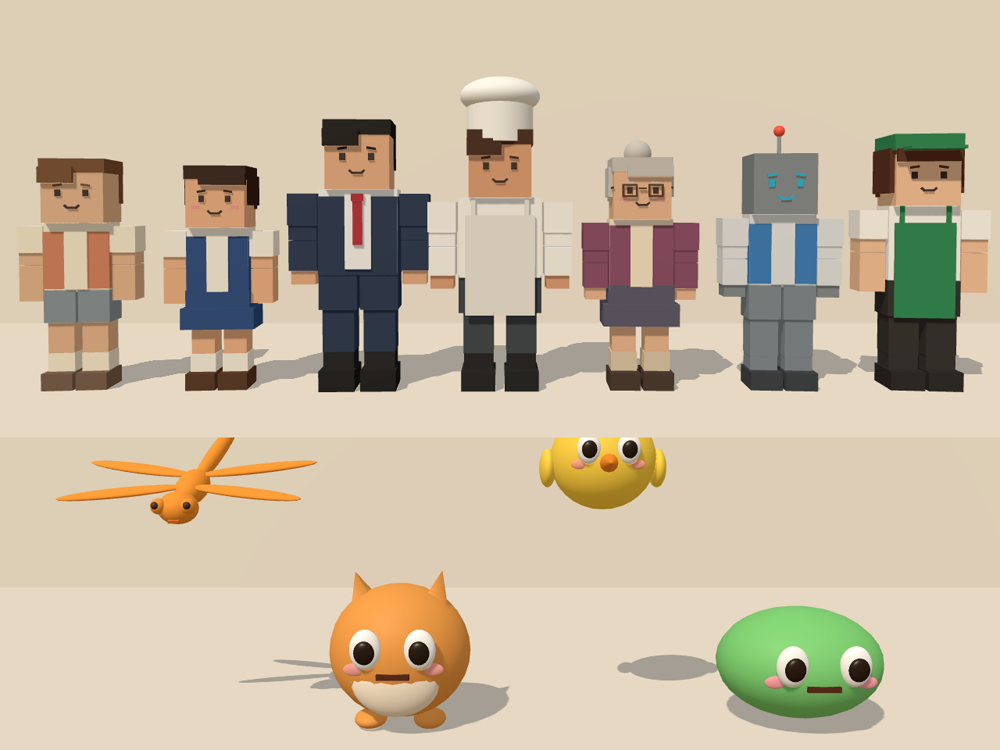
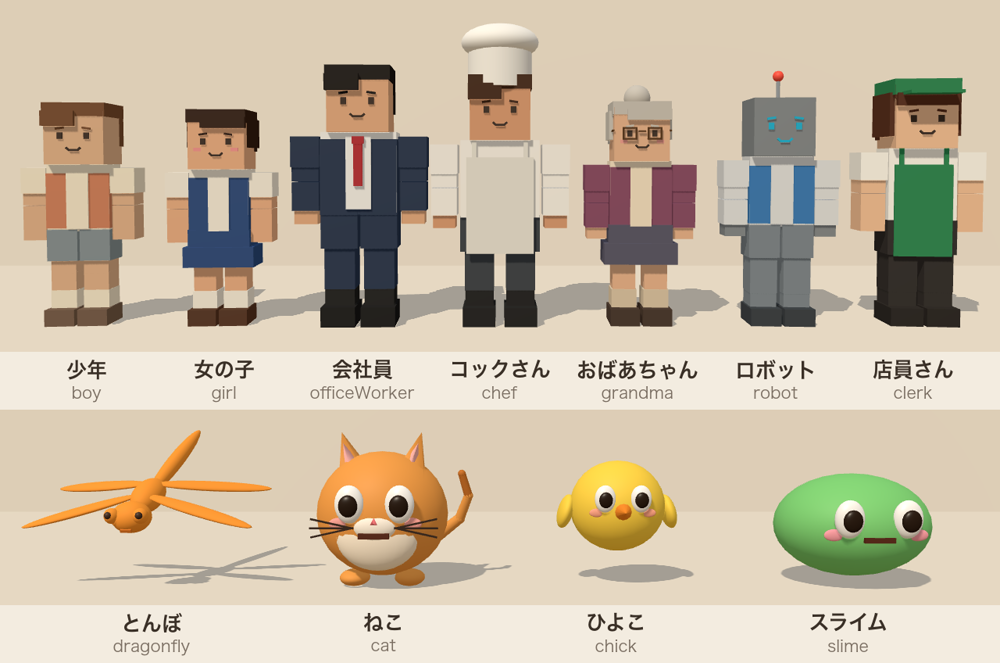
Docs: labelled cast image, full kikaku-option mapping, voice terms for the example voices

diff --git a/SKILL.md b/SKILL.md
@@ -27,16 +27,21 @@ Make 3D animated videos (9:16 shorts or 16:9) with consistent characters, VOICEV
 
 | 企画書 | → | Implementation |
 |---|---|---|
-| 向き / 長さ | → | `--aspect 9:16`/`16:9`, `total_sec`; layout `*916` / `duo169` |
+| 誰に見せる / どこに載せる | → | tone and length only. Shorts/TikTok/Reels → 9:16; YouTube (normal), slides, TV → 16:9 when 向き is おまかせ |
+| 雰囲気 | → | コメディ: quick lines (`speed` 1.1–1.2), a beat of silence + `deadpan` look to camera for the punchline, 明るい music · ほのぼの: `speed` 0.95–1.0, `happy`, のんびり music · 解説: `solo916`/`duo169`, narrator voice 30, steady pace, subtitles burn if おまかせ · 感動: slow (`speed` ~0.9), longer pauses, のんびり music, no joke ending · シュール: `deadpan`, few gestures, ドキドキ or 音楽なし · その他: follow the user's words |
+| 向き / 長さ | → | 縦 `--aspect 9:16`, 横 `16:9`; `total_sec` (おまかせ → 12–15 s); layout by head count: 1 `solo916`, 2 `duoHumans916` (human + flying mascot `duo916`), 3 `trio916`, 横 `duo169` |
 | 登場人物・見た目 | → | 少年 `boy`, 女の子 `girl`, 会社員 `officeWorker`, コックさん `chef`, おばあちゃん `grandma`, ロボット `robot`, 店員さん `clerk`, とんぼ `dragonfly`, ねこ `cat`, ひよこ `chick`, スライム `slime`; described in words → `AI3DChars.define(name, spec)` (or a cast.js entry) |
-| 声の感じ | → | `speaker_id` from `references/voicevox_speakers.md` (one id per character, all video) |
+| 声の感じ | → | 明るい / 落ち着いた / 元気な子ども / 低め / かわいい / お年寄り / ロボットっぽい → the table in `references/voicevox_speakers.md`; おまかせ → that table's "Fits" column for the character, keeping every character's voice different. One id per character, all video |
 | 性格 / 表情・動き | → | `setExpression`, `look`, `point`, `speed`/`pitch` of lines |
-| 場所 | → | 学校のホール `schoolHall`, 会社 `office`, キッチン `kitchen`, リビング `livingRoom`, お店 `shop`, 公園 `park`; otherwise `createRoom` / `createOutdoor` + props |
+| 場所 | → | 学校のホール `schoolHall`, 会社 `office`, キッチン `kitchen`, リビング `livingRoom`, お店 `shop`, 公園 `park`; その他 → `createRoom` / `createOutdoor` + props; おまかせ → the set that fits the story |
+| 出てくる物・持っている物 | → | props from `references/api.md`; carried → `createStacker`; held in one hand → child of `rig.arms.L.fore` |
 | 流れ（表） | → | one `lines[]` entry per spoken cue; beats timed from the audio printout |
-| 音楽の雰囲気 / 止める瞬間 / 効果音 | → | built-in loop (明るい) or `--bgm file` (e.g. `examples/zumen-doori/bgm_calm.mp3` = のんびり), `bgm_stop_sec`, `sfx[]` |
+| 音楽の雰囲気 | → | 明るい: built-in loop (no `--bgm`) · のんびり: `--bgm "$SKILL"/examples/zumen-doori/bgm_calm.mp3` · ドキドキ: `--bgm "$SKILL"/assets/bgm_tense.mp3` · 音楽なし: `--bgm none` · おまかせ: by 雰囲気 (row above) |
+| 音楽を止めたい瞬間 / 効果音 | → | `bgm_stop_sec` (omit = to the end); `sfx[]`. Bundled sound: `examples/zumen-doori/wind.mp3` only. Other sounds need a file from the user; without one, leave it out and mark （仮） |
 | 字幕 | → | `--subtitles burn` (動画に入れる) or `none` (なし / あとで自分で: `subtitles.srt` is still written) |
 | 画面内の文字 | → | keep props blank unless 入れたい (then say text is added in editing) |
 | こだわり | → | add to the Quality-rules check of `preview.png` |
+| 参考 | → | use for mood and pacing only; do not copy someone else's characters, footage or music |
 
 5. Change requests: edit `kikaku.md` first, then the video. The plan sheet is the source of truth.
 6. In the final report, list every item you decided provisionally (（仮）) and the voice credit lines needed.
@@ -64,7 +69,7 @@ python3 "$SKILL"/scripts/render_batch.py --work-dir . --aspect 9:16 --subtitles 
 - **One line per visual cue.** If props appear on separate words ("荷物！ 写真！ 進行も！"), make them separate lines so each `start` can be set.
 - The script prints each line's real start/end; time the choreography from that printout.
 - Sound effects / ambience: top-level `"sfx": [{ "file": "wind.mp3", "start": 5.0, "volume": 0.8 }]` (path relative to dialogue.json).
-- Options: `--bgm file.mp3 --bgm-volume 0.6` (own music), `--require-voicevox` (fail instead of falling back to macOS `say`).
+- Options: `--bgm file.mp3 --bgm-volume 0.6` (own music; bundled: `examples/zumen-doori/bgm_calm.mp3` calm, `assets/bgm_tense.mp3` tense), `--bgm none` (no music), `--require-voicevox` (fail instead of falling back to macOS `say`).
 - **Keep one `speaker_id` per character for the whole video**; convey emotion with `speed`/`pitch`.
 
 ### render_batch.py
@@ -88,7 +93,7 @@ Cast: humanoids `boy girl officeWorker chef grandma robot clerk`; mascots `drago
 Side `'L'` = screen-left when facing the camera. Spec height is already in `group.scale`.
 **Mascot** — `group, body, head, mouth, eyes, height, faceY` + `setMouth`, `setExpression`, `look(x,y)`, `blink(t)`, `flap(t)`. **Mascots and the dragonfly never get arms/hands**; they gesture with the whole body. Dragonfly: `bodyPivot.rotation.x ≈ 0.42` so the wings read; body at local y=1.0.
 
-**New character** — add a spec to `assets/cast.js` (copy the closest entry), or in a scene: `AI3DChars.define('teacher', { ...AI3DChars.specs.officeWorker, hairStyle: 'bob', glasses: '#333' })`. Humanoid spec keys: colours `skin hair top topAccent bottom socks shoes eye glasses tie apron cheeks hatColor`; `hairStyle short|bob|long|ponytail|bun|cap|bald`; `hat cap|chef|helmet|beanie|antenna`; `topAccentStyle vest|jacket`; `bottomStyle shorts|pants|skirt`; `sleeves short|long`; `height`, `build`, `headScale`. Mascot keys: `body belly cheeks size shape(round|tall|blob) ears(cat|bear|bunny) wings(bird|bug) tail(round|long) beak float feet`. Colours `'#rrggbb'`.
+**New character** — add a spec to `assets/cast.js` (copy the closest entry), or in a scene: `AI3DChars.define('teacher', { ...AI3DChars.specs.officeWorker, hairStyle: 'bob', glasses: '#333' })`. Humanoid spec keys: colours `skin hair top topAccent bottom socks shoes eye glasses tie apron cheeks hatColor`; `hairStyle short|bob|long|ponytail|bun|cap|bald`; `hat cap|chef|helmet|beanie|antenna`; `topAccentStyle vest|jacket`; `bottomStyle shorts|pants|skirt`; `sleeves short|long`; `height`, `build`, `headScale`. Mascot keys: `body belly cheeks size shape(round|tall|blob) ears(cat|bear|bunny) earInner wings(bird|bug) tail(round|long) tailTip beak muzzle nose whiskers float feet` (a cat reads as a cat with ears:'cat', tail:'long', whiskers, nose, muzzle — see `cat` in cast.js). Colours `'#rrggbb'`.
 
 **Sets** — `AI3DProps.createSet(THREE, scene, 'schoolHall'|'office'|'kitchen'|'livingRoom'|'shop'|'park')` → `{ root, main, mainTopY, …refs }` (`main` = key furniture back-right; move it freely). Build others with `createRoom(THREE, parent, {floor, wall, windows, banner})` / `createOutdoor(THREE, parent, {ground, sky, buildings})`.
 

diff --git a/README.md b/README.md
@@ -64,8 +64,7 @@ Gemini CLI なら `~/.gemini/config/skills/ai-3d-video` など、それぞれの
 
 <img src="docs/cast.png" width="600" alt="出演者一覧">
 
-上の段、左から：少年 `boy`／女の子 `girl`／会社員 `officeWorker`／コックさん `chef`／おばあちゃん `grandma`／ロボット `robot`／店員さん `clerk`
-下の段、左から：とんぼ `dragonfly`／ねこ `cat`／ひよこ `chick`／スライム `slime`
+絵の下に、企画書で使う日本語の名前と、エージェントが使う名前を書いてあります。上の段は人の形の出演者 7 人（少年 `boy`／女の子 `girl`／会社員 `officeWorker`／コックさん `chef`／おばあちゃん `grandma`／ロボット `robot`／店員さん `clerk`）、下の段は人の形でない相棒 4 体（とんぼ `dragonfly`／ねこ `cat`／ひよこ `chick`／スライム `slime`）です。相棒には手がありません。
 
 企画書では日本語の名前で選べば十分です。一覧に無い見た目は、言葉で書いてください（例：「メガネの先生、紺のジャケット、ボブヘア」）。エージェントが設定を作ります。
 
@@ -110,7 +109,7 @@ python3 "$SKILL"/scripts/audio_pipeline.py --script dialogue.json --out-dir . --
 python3 "$SKILL"/scripts/render_batch.py --work-dir . --aspect 9:16 --subtitles none --out out.mp4
 ```
 
-同梱の `bgm_calm.mp3` と `wind.mp3` はこのリポジトリ用にプログラムで生成した音で、コードと同じ MIT ライセンスで使えます。
+同梱の `bgm_calm.mp3`（のんびり）、`wind.mp3`（風の音）、`assets/bgm_tense.mp3`（ドキドキ）はこのリポジトリ用にプログラムで生成した音で、コードと同じ MIT ライセンスで使えます。
 
 ### サンプル 3 本目：「塩少々」（12 秒）
 
@@ -174,7 +173,7 @@ python3 "$SKILL"/scripts/render_batch.py --work-dir . --aspect 9:16 --subtitles 
 
 | コマンド | オプション |
 |---|---|
-| `audio_pipeline.py` | `--bgm 曲.mp3`（自分の曲を使う）、`--bgm-volume 0.6`、`--require-voicevox`（VOICEVOX が無ければ止まる） |
+| `audio_pipeline.py` | `--bgm 曲.mp3`（自分の曲を使う）、`--bgm none`（音楽なし）、`--bgm-volume 0.6`、`--require-voicevox`（VOICEVOX が無ければ止まる） |
 | `render_batch.py` | `--preview`（下見）、`--step 5`（下見のコマ間隔）、`--subtitles burn`（字幕を焼き込む）、`--timeout 600`、`--chrome`、`--subtitle-font` |
 
 ## フォルダ構成
@@ -200,7 +199,17 @@ VOICEVOX:春日部つむぎ
 VOICEVOX:玄野武宏
 ```
 
-「塩少々」では `VOICEVOX:青山龍星`、`VOICEVOX:ナースロボ＿タイプＴ` を使っています。
+「塩少々」では次の 2 つの声を使っています。
+
+```text
+VOICEVOX:青山龍星
+VOICEVOX:ナースロボ＿タイプＴ
+```
+
+どちらも、この表記を入れれば商用・非商用で使えるとされています（VOICEVOX 0.26.1 に同梱の規約文による）。ただし青山龍星は、**企業が関わる形で使う場合は事前の確認が必要**とされています。
+
+- 青山龍星：https://www.virvoxproject.com/voicevoxの利用規約
+- ナースロボ＿タイプＴ：https://www.krnr.top/rules
 
 春日部つむぎ・玄野武宏は、この表記を入れれば商用・非商用で使えるとされています（VOICEVOX 0.26.1 に同梱の規約文による）。規約は変わることがあるので、公開前に各キャラクターの最新の利用規約を確認してください。
 
@@ -219,7 +228,7 @@ VOICEVOX:玄野武宏
 ## 既知の制限
 
 - 既定は 15fps です。口パクもこの細かさで作られます。
-- 同梱の BGM は簡単な電子音です。作品には `--bgm` で自分の曲を指定することをおすすめします。
+- 同梱の BGM（内蔵の明るいループ、のんびり、ドキドキ）は簡単な電子音です。作品には `--bgm` で自分の曲を指定することをおすすめします。
 - 描画はソフトウェア処理（SwiftShader）なので、複雑なシーンでは時間がかかります。
 - VOICEVOX が起動していない macOS では、警告を出したうえで OS の読み上げ音声に切り替わります（声は変わります）。
 

diff --git a/references/api.md b/references/api.md
@@ -29,7 +29,7 @@ Load order in scene.html: `three.min.js, characters.js, cast.js, props.js, stage
 | `robot` | humanoid | metal head, antenna (`rig.parts.antennaTip`), cyan eyes | 1.72 |
 | `clerk` | humanoid | bob hair, green cap + apron | 1.68 |
 | `dragonfly` | mascot | orange, 4 wings, **no arms** | body at local y=1.0 |
-| `cat` | mascot | standing orange cat, ears, tail | 0.63 |
+| `cat` | mascot | standing orange cat: pointed ears, whiskers, pink nose, curled striped-tip tail | 0.64 |
 | `chick` | mascot | flying yellow chick, beak, wings | body at local y=1.0 |
 | `slime` | mascot | green blob, no feet | 0.45 |
 
@@ -43,7 +43,9 @@ Load order in scene.html: `three.min.js, characters.js, cast.js, props.js, stage
 ### Mascot spec
 `body belly eyeWhite pupil mouthColor cheeks` colours · `size` (1 ≈ 0.5 tall) · `shape: 'round'|'tall'|'blob'` ·
 `ears: null|'cat'|'bear'|'bunny'` · `wings: null|'bird'|'bug'`, `wingColor` · `tail: null|'round'|'long'` · `beak` colour (replaces the mouth) ·
-`float` (hover with body at local y=1.0, like the dragonfly) · `feet` (default true when standing) · `antenna`.
+`float` (hover with body at local y=1.0, like the dragonfly) · `feet` (default true when standing) · `antenna` ·
+`earInner` (inner-ear colour, cat ears) · `tailTip` (tip colour of the long tail, which curls out to the side and up so it reads from the front) ·
+`muzzle` (snout patch colour; mouth and nose sit on it) · `nose` (small triangle nose colour) · `whiskers` (colour; 3 per side).
 
 ### Rig contract
 

diff --git a/templates/kikaku.md b/templates/kikaku.md
@@ -67,7 +67,7 @@
 ### 6. 音
 - 音楽の雰囲気（○）：明るい ／ のんびり ／ ドキドキ ／ 音楽なし ／ おまかせ
 - 音楽を止めたい瞬間：　　　　（例）オチの一言の直前
-- 効果音：　　　　　　　　　　（例）最後に「チーン」、風の音
+- 効果音：　　　　　　　　　　（例）風の音（同梱）。ほかの音は、音のファイルがあれば使えます
 
 ### 7. こだわり・やってほしくないこと
 （例）とんぼに手を付けない／荷物を宙に浮かせない／怒鳴らない／顔が隠れないように
